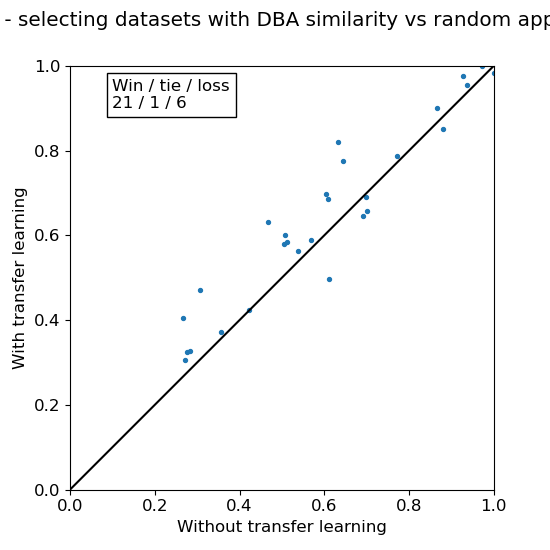
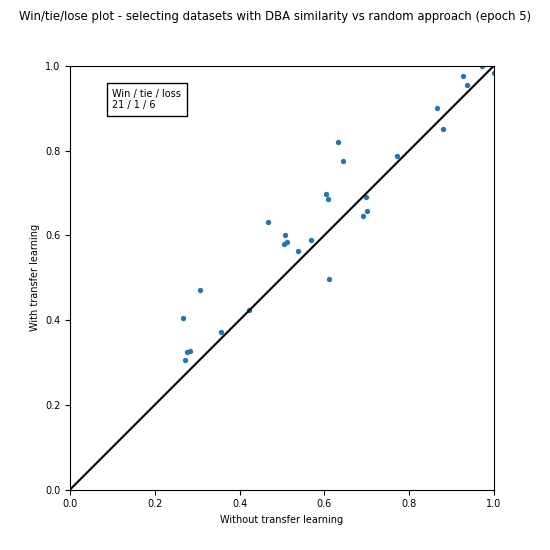
changed font

diff --git a/src/results/utils.py b/src/results/utils.py
@@ -78,7 +78,7 @@ class Results(metaclass=ABCMeta):
         if assert_:
             self._assert_histories_equal()
         self.datasets = self._get_common_datasets()
-        matplotlib.rc("font", size=12)
+        matplotlib.rc("font", size=9)
 
     def _get_second_experiment_runs(self) -> Dict[str, Run]:
         return self._get_history_per_experiment(self.second_experiment_id)
